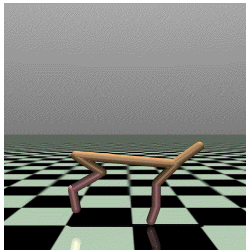
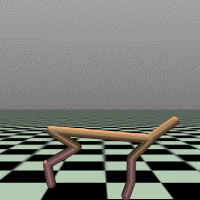
Adjust ImagSize

diff --git a/helper.py b/helper.py
@@ -1,6 +1,6 @@
 from PIL import Image
 
-target_size = (250, 250)  # width, height
+target_size = (200, 200)  # width, height
 
 for i, path in enumerate(["imgs/ant.png", "imgs/hc.png", "imgs/hopper.png"]):
     img = Image.open(path)
